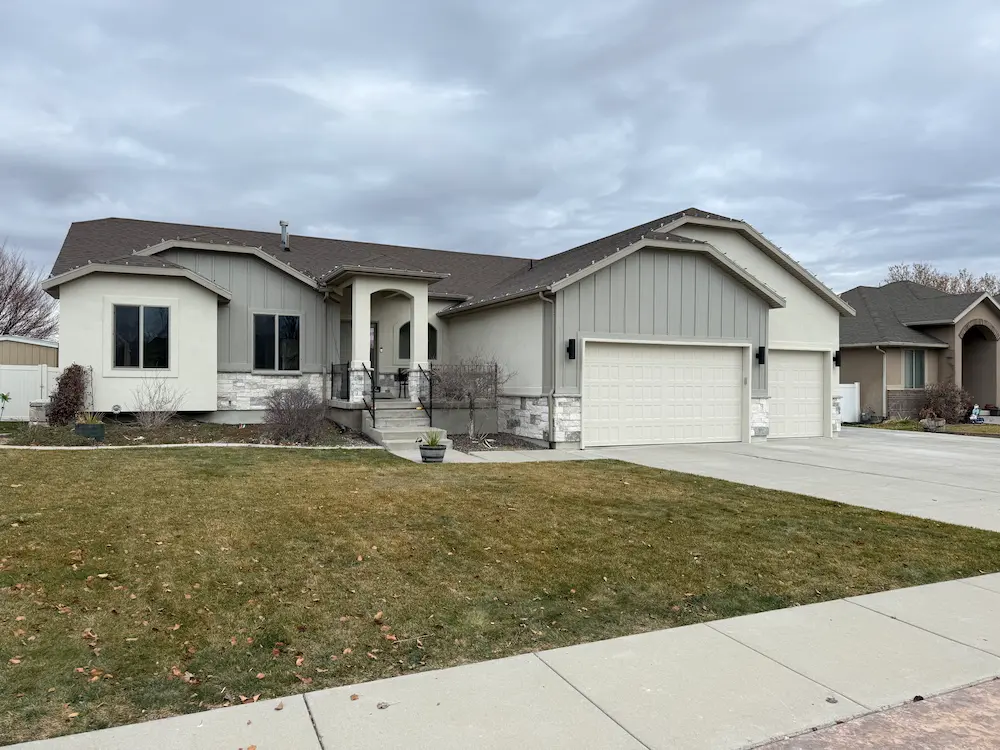
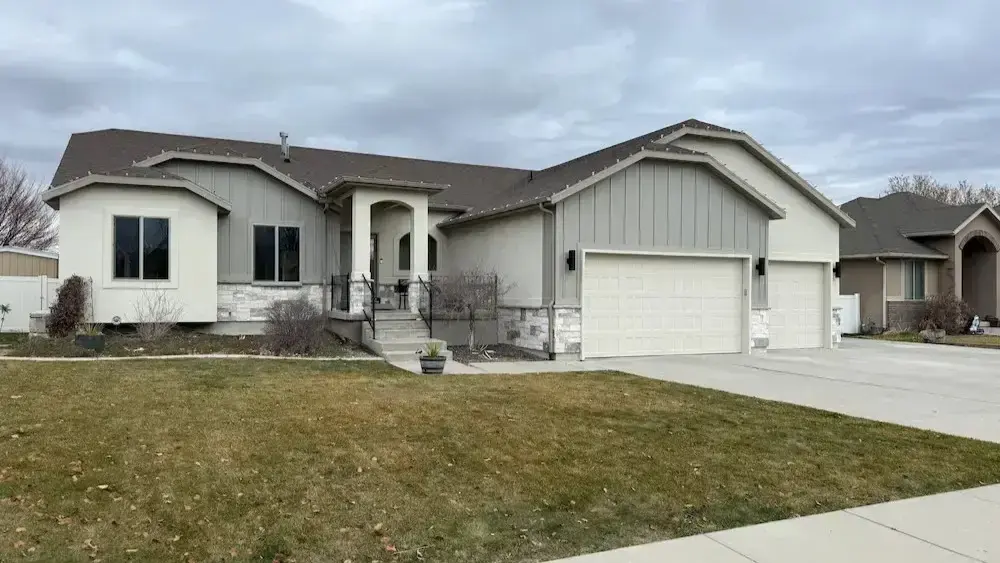
Cropped the new images & added padding

diff --git a/index.html b/index.html
@@ -124,7 +124,7 @@
         <section id="before-after" class="before-after">
             <div class="container">
                 <h2>Before & After</h2>
-                <div class="before-after-grid">
+                <div class="before-after-featured">
                     <div class="before-after-item fade-in">
                         <div class="compare" style="overflow: visible;">
                             <img class="compare__image-one" src="img/before-after/after3.webp">
@@ -139,6 +139,8 @@
                             <input class="compare__input" type="range" min="0" step="0.5" max="100" value="50">
                         </div>
                     </div>
+                </div>
+                <div class="before-after-grid">
                     <div class="before-after-item fade-in">
                         <div class="compare" style="overflow: visible;">
                             <img class="compare__image-one" src="img/before-after/after1.webp">

diff --git a/css/before-after.css b/css/before-after.css
@@ -10,6 +10,10 @@
     margin-bottom: 40px;
 }
 
+.before-after-featured {
+    padding-bottom: 20px;
+}
+
 .before-after-grid {
     display: grid;
     gap: 20px;
